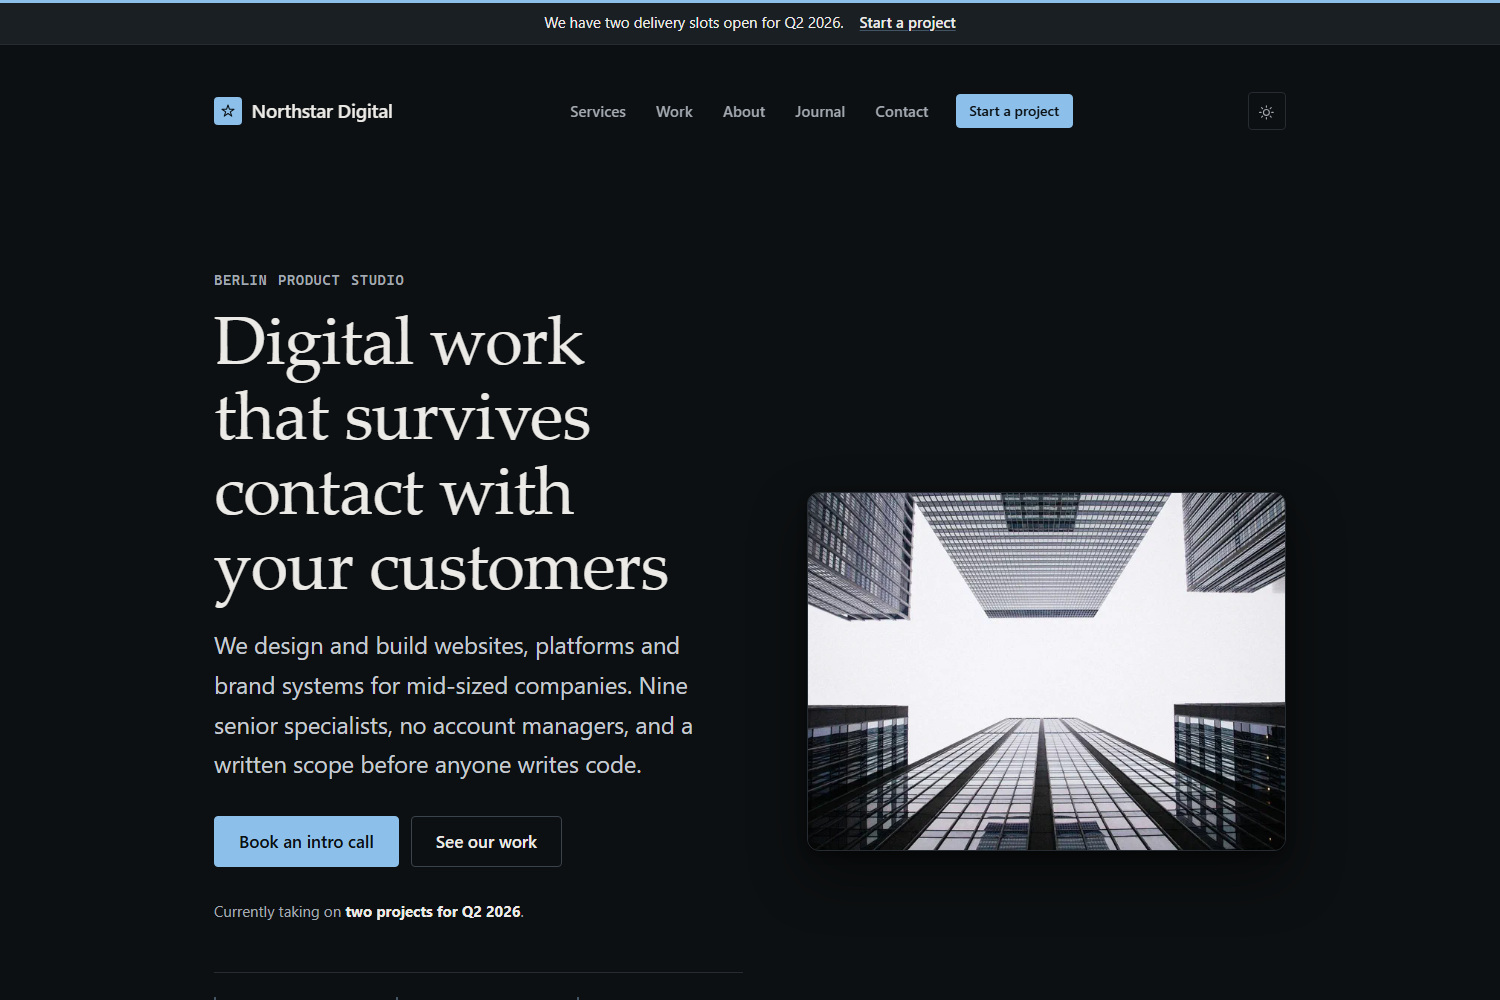
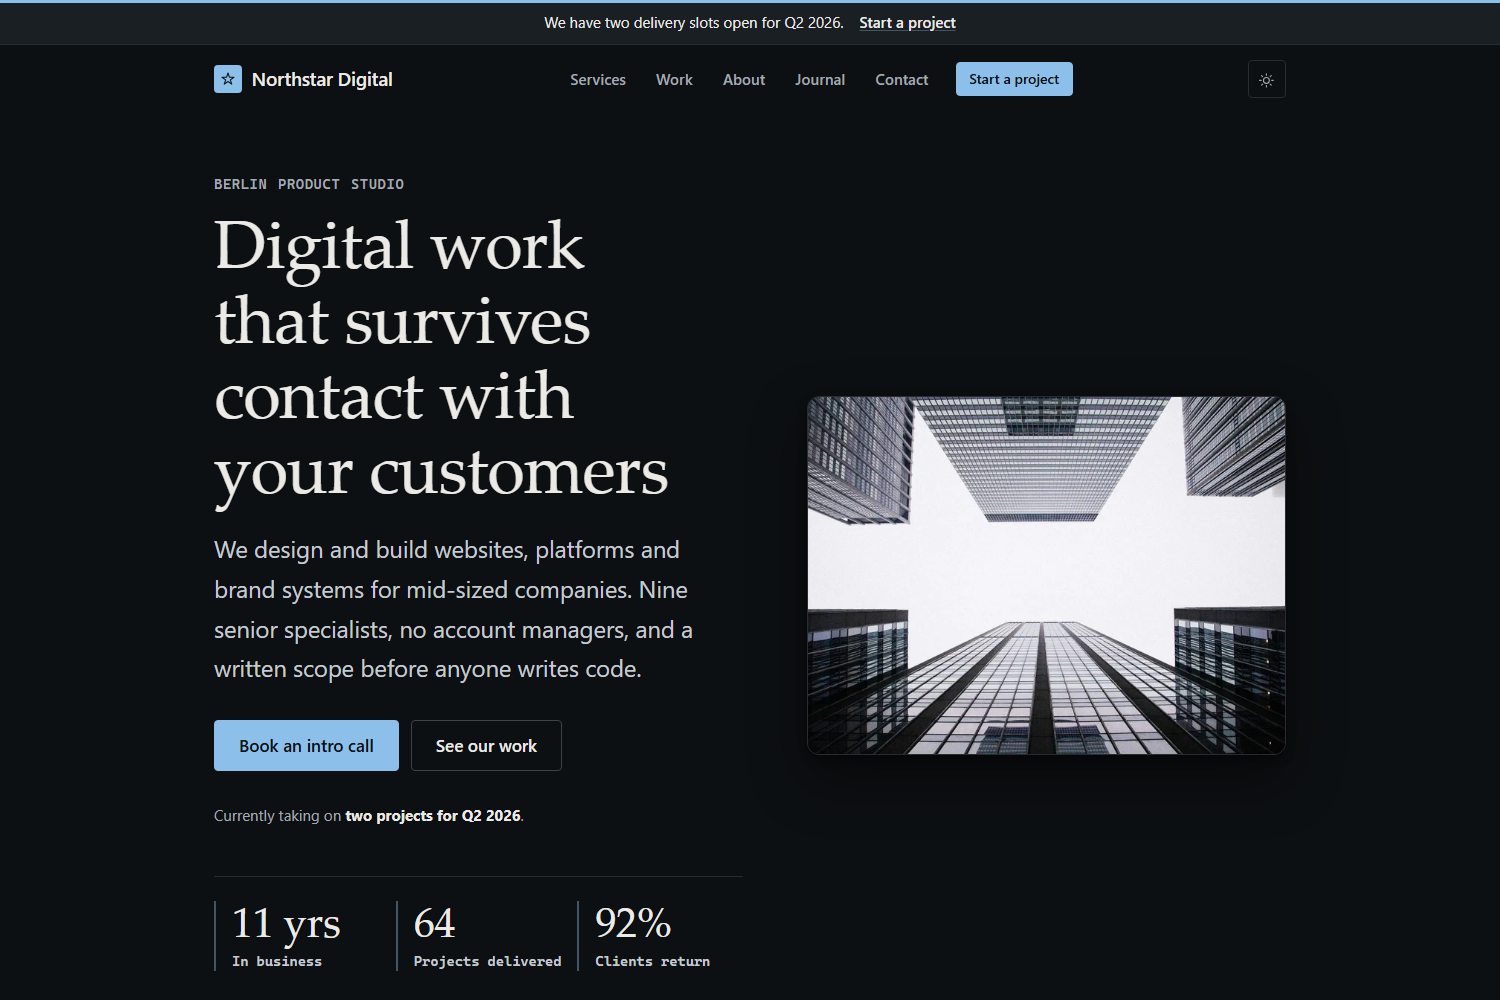
fix: sticky header overlapped content, inflated by Pico's body-child padding
Pico pads every direct child of body:

    body>footer, body>header, body>main { padding-block: … }

With --pico-block-spacing-vertical at 2rem that made the sticky header 133px
tall instead of the 69px the design intends, so it covered body text on scroll,
and it added the same 64px of dead space above the first section of every page.
The two chrome elements that have no padding of their own now opt out; the
footer already won with its own class rule.

Two consequences of that height are fixed with it:

- Sticky sidebars were offset by a hardcoded 6rem, which was less than the
  real header height, so the author card and case-study sidebar slid under the
  header. Header height is now a token, and the sticky offset and
  scroll-padding for anchor links both derive from it.
- The header was 94% opaque with a blur meant to hide what showed through.
  Where backdrop-filter does not apply the text ghosted visibly. It is opaque
  now; the hairline and shadow already separate it once scrolled.

Screenshots and the social card are recaptured, since they showed the old
header and the dead space above the hero.

diff --git a/assets/css/theme/30-header.css b/assets/css/theme/30-header.css
@@ -3,6 +3,26 @@
    Announcement bar, header, navigation, mobile panel, footer.
    ========================================================================== */
 
+/* ---- Pico body-child reset --------------------------------------------
+   Pico pads every direct child of body:
+
+     body>footer, body>header, body>main { padding-block: … }
+
+   That inflated the sticky header by 64px, which then overlapped content and
+   left the sticky sidebars offset wrong, and it added the same space above the
+   first section. This theme paints its own rhythm with .section and the chrome
+   components, so the two that have no padding of their own opt out. The footer
+   already wins with its own class rule.
+
+   `body > .x` scores higher than Pico's `body>x`, so these hold regardless of
+   source order.
+   ---------------------------------------------------------------------- */
+
+body > .site-header,
+body > .site-main {
+  padding-block: 0;
+}
+
 /* ---- Announcement bar -------------------------------------------------- */
 
 .announcement {
@@ -44,8 +64,10 @@
   position: sticky;
   top: 0;
   z-index: 50;
-  background-color: color-mix(in srgb, var(--pc-bg) 94%, transparent);
-  backdrop-filter: blur(12px);
+  /* Opaque on purpose: a translucent header let body text ghost through it,
+     and the blur that was meant to hide that is not reliable across
+     browsers. The hairline and shadow below do the separating instead. */
+  background-color: var(--pc-bg);
   border-block-end: 1px solid transparent;
   transition: border-color var(--pc-duration) var(--pc-ease),
     box-shadow var(--pc-duration) var(--pc-ease);
@@ -61,7 +83,7 @@
   align-items: center;
   justify-content: space-between;
   gap: var(--pc-space-md);
-  min-height: 4.25rem;
+  min-height: var(--pc-header-height);
 }
 
 /* ---- Brand ------------------------------------------------------------- */
@@ -259,7 +281,7 @@
   display: none;
   border-block-start: var(--pc-border);
   background-color: var(--pc-bg);
-  max-height: calc(100dvh - 4.25rem);
+  max-height: calc(100dvh - var(--pc-header-height));
   overflow-y: auto;
 }
 

diff --git a/assets/css/theme/00-tokens.css b/assets/css/theme/00-tokens.css
@@ -23,6 +23,10 @@
   --pc-section-padding: clamp(3.5rem, 7vw, 7rem);
   --pc-section-padding-sm: clamp(2.5rem, 4.5vw, 4rem);
 
+  /* Chrome. The header height is a token because sticky offsets and
+     scroll-padding have to agree with it. */
+  --pc-header-height: 4.25rem;
+
   /* Containers */
   --pc-container: 72rem;
   --pc-container-wide: 84rem;

diff --git a/assets/css/theme/10-base.css b/assets/css/theme/10-base.css
@@ -13,7 +13,8 @@
 html {
   -webkit-text-size-adjust: 100%;
   scroll-behavior: smooth;
-  scroll-padding-top: 6rem;
+  /* Anchored headings have to clear the sticky header. */
+  scroll-padding-top: calc(var(--pc-header-height) + var(--pc-space-md));
 }
 
 body {

diff --git a/assets/css/theme/20-layout.css b/assets/css/theme/20-layout.css
@@ -192,7 +192,7 @@ nav ol > li > button {
 
   .split--sticky > :last-child {
     position: sticky;
-    top: 6rem;
+    top: calc(var(--pc-header-height) + var(--pc-space-md));
   }
 }
 
